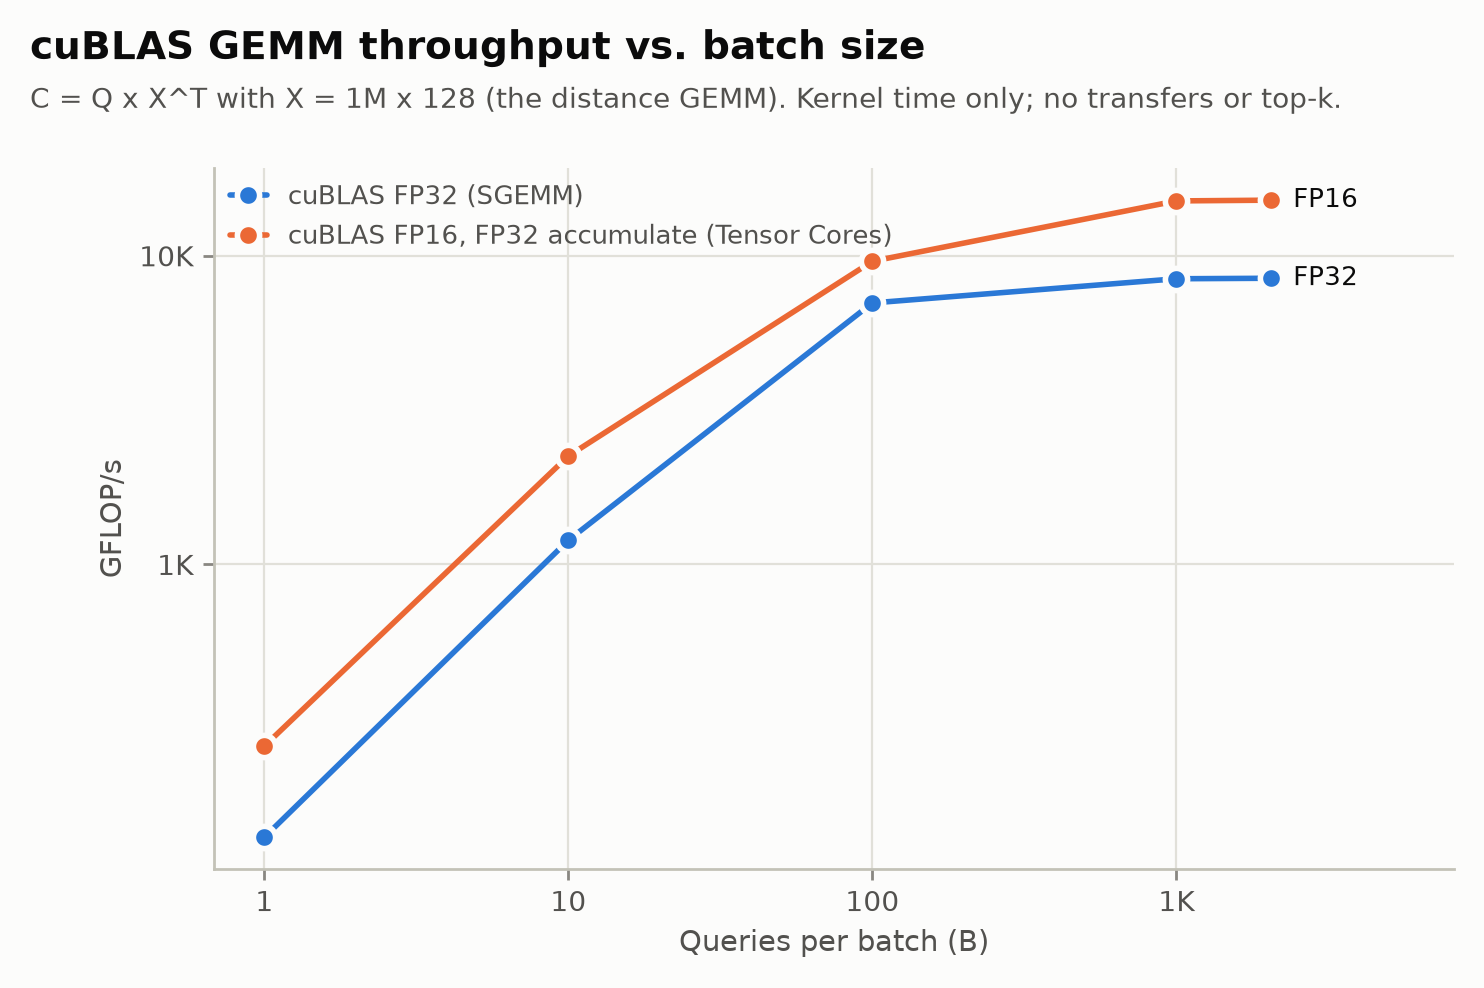
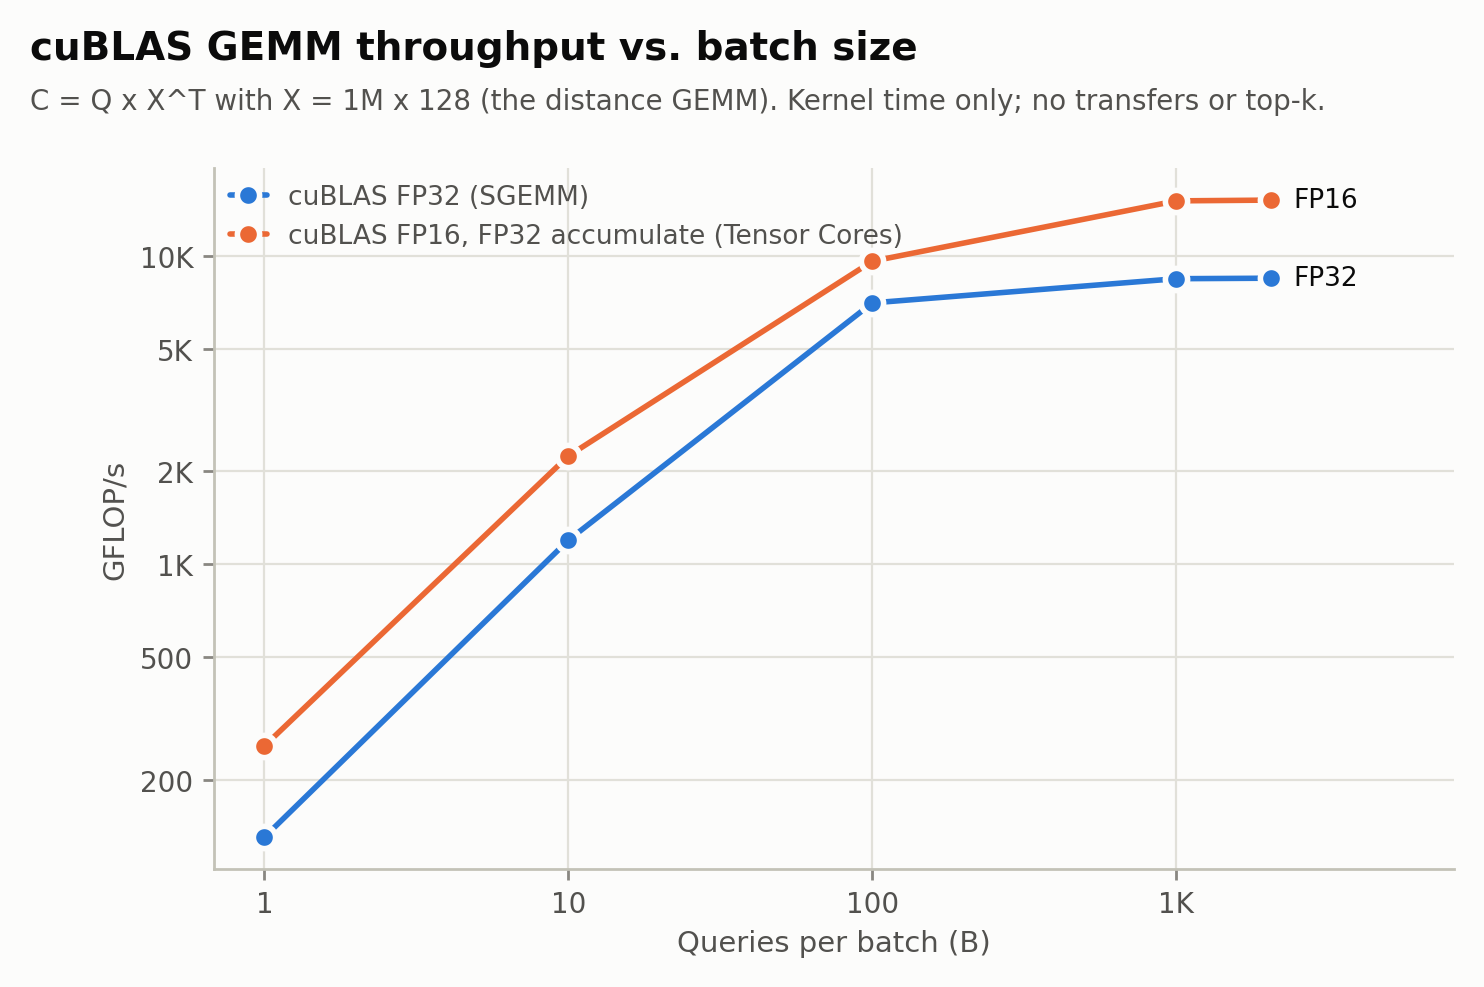
Plots: don't mix GPU models; skip colliding end labels
roofline.py records the GPU name (new 'device' column in roofline.csv);
plot.py draws micro.csv ceilings only when they come from the same GPU model
as the profile. Euler's instruction partition has both RTX 4000 Ada and RTX
4000 SFF Ada nodes. End labels are dropped when they would overlap (the legend
carries identity); GEMM y-axis gets 2x/5x ticks. Regenerated plots.

diff --git a/scripts/plot.py b/scripts/plot.py
@@ -152,11 +152,18 @@ def line_with_markers(ax, xs, ys, color, label):
     return h
 
 
-def end_labels(ax, series):
-    """Direct labels at line ends (only used for <= 4 series), in text ink."""
+def end_labels(fig, ax, series, min_gap_pt=13):
+    """Direct labels at line ends (only for <= 4 series), in text ink. If any two ends
+    are closer than a label's height, skip them all: the legend carries identity, and
+    nudged labels would detach from their lines."""
+    ends = sorted(ax.transData.transform((xs[-1], ys[-1]))[1] for xs, ys, _ in series)
+    min_gap = min_gap_pt * fig.dpi / 72.0
+    if any(b - a < min_gap for a, b in zip(ends, ends[1:])):
+        return False
     for xs, ys, text in series:
         ax.annotate(text, (xs[-1], ys[-1]), xytext=(8, 0), textcoords="offset points",
                     va="center", ha="left", fontsize=9.5, color=INK)
+    return True
 
 
 # ---------------------------------------------------------------------------
@@ -202,8 +209,10 @@ def plot_throughput(rows, k, out):
     if len(handles) >= 2:
         legend(ax, handles, outside=len(handles) > 4)
     if len(handles) <= 4:
-        end_labels(ax, ends)
+        right = ax.get_xlim()[1]
         ax.set_xlim(right=max(max(xs) for xs, _, _ in ends) * 4)
+        if not end_labels(fig, ax, ends):
+            ax.set_xlim(right=right)
     save(fig, os.path.join(out, "throughput.png"))
 
 
@@ -271,14 +280,23 @@ def plot_roofline(rows, micro, out):
     fig.subplots_adjust(top=0.85)
     style(fig, ax, "Roofline: where each kernel sits",
           "Achieved FP32 GFLOP/s vs. arithmetic intensity (DRAM). Roof and points from the same "
-          "Nsight Compute run, at profiling clocks.")
+          "Nsight Compute run, at profiling clocks%s." % (", " + pts[0]["device"].replace("NVIDIA ", "")
+                                                          if pts[0].get("device") else ""))
     ax.plot(xs, [min(peak, x * bw) for x in xs], color=INK_2, linewidth=1.5, zorder=2)
     ridge = peak / bw
 
-    # Measured ceilings (boost clocks) from the microbenchmarks, if available.
+    # Measured ceilings (boost clocks) from the microbenchmarks, only if they were
+    # measured on the same GPU model as the profile (Euler mixes GPU models).
+    device = pts[0].get("device", "")
     latest = {}
     for r in micro:
+        if device and r.get("device", "") != device:
+            continue
         latest[r["test"]] = float(r["value"])
+    other = sorted({r.get("device", "") for r in micro} - {device}) if device else []
+    if micro and not latest:
+        print("roofline: measured ceilings not drawn: micro.csv is from %s, the profile from %s"
+              % (", ".join(other) or "an unknown GPU", device or "an unknown GPU"))
     m_bw = max([latest[t] for t in ("dram_read", "dram_copy") if t in latest] or [0])
     m_fl = latest.get("fp32_fma", 0)
     if m_bw and m_fl:
@@ -383,12 +401,15 @@ def plot_gemm(rows, out):
     ax.set_xscale("log")
     ax.set_yscale("log")
     log_axis(ax.xaxis)
-    log_axis(ax.yaxis)
+    ally = [y for _, ys, _ in ends for y in ys]
+    log_axis(ax.yaxis, min(ally), max(ally))
     label_axes(ax, "Queries per batch (B)", "GFLOP/s")
     if len(handles) >= 2:
         legend(ax, handles)
-    end_labels(ax, ends)
+    right = ax.get_xlim()[1]
     ax.set_xlim(right=max(max(xs) for xs, _, _ in ends) * 4)
+    if not end_labels(fig, ax, ends):
+        ax.set_xlim(right=right)
     save(fig, os.path.join(out, "gemm.png"))
 
 

diff --git a/scripts/roofline.py b/scripts/roofline.py
@@ -45,7 +45,7 @@ SHORT_UNITS = {"ns": 1e-9, "us": 1e-6, "ms": 1e-3, "s": 1.0,
 OUT_FIELDS = ["version", "profile", "kernel", "launches", "time_ms", "gflop", "dram_gb",
               "ai_flop_per_byte", "achieved_gflops", "achieved_dram_gbs",
               "peak_gflops", "peak_dram_gbs", "ridge_ai", "bound", "pct_of_roof",
-              "l2_gb", "ai_l2", "sm_pct_of_peak", "dram_pct_of_peak"]
+              "l2_gb", "ai_l2", "sm_pct_of_peak", "dram_pct_of_peak", "device"]
 
 
 def unit_scale(unit):
@@ -104,6 +104,8 @@ def read_ncu_raw(path):
         if len(row) != len(header):
             continue
         rec = {"kernel": short_kernel_name(row[header.index("Kernel Name")])}
+        if "device__attribute_display_name" in header:
+            rec["device"] = row[header.index("device__attribute_display_name")].strip()
         for col, unit, value in zip(header, units, row):
             num = parse_number(value)
             if num is not None and "__" in col:
@@ -122,7 +124,7 @@ def summarize(path):
     for rec in read_ncu_raw(path):
         k = rec["kernel"]
         if k not in kernels:
-            kernels[k] = {"launches": 0, "peaks": rec, "pct": []}
+            kernels[k] = {"launches": 0, "peaks": rec, "pct": [], "device": rec.get("device", "")}
             for m in SUMMED:
                 kernels[k][m] = 0.0
             order.append(k)
@@ -167,6 +169,7 @@ def summarize(path):
             "ai_l2": flops / agg[L2] if agg[L2] else float("inf"),
             "sm_pct_of_peak": sum(sm_pct) / len(sm_pct) if sm_pct else float("nan"),
             "dram_pct_of_peak": sum(dram_pct) / len(dram_pct) if dram_pct else float("nan"),
+            "device": agg["device"],
         })
     return out
 
